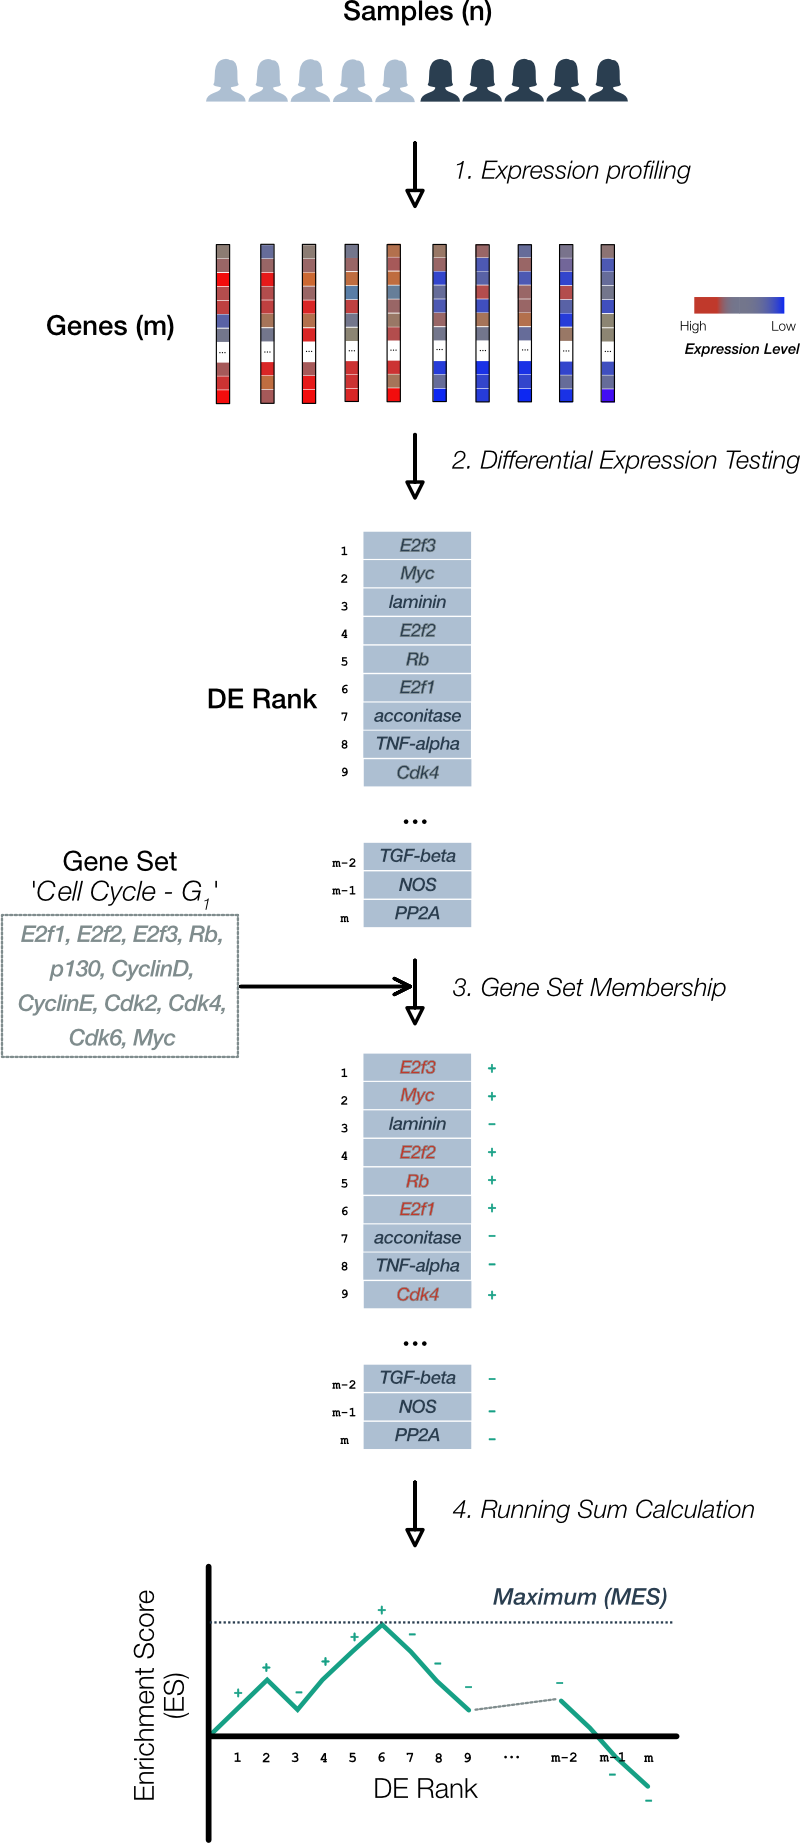
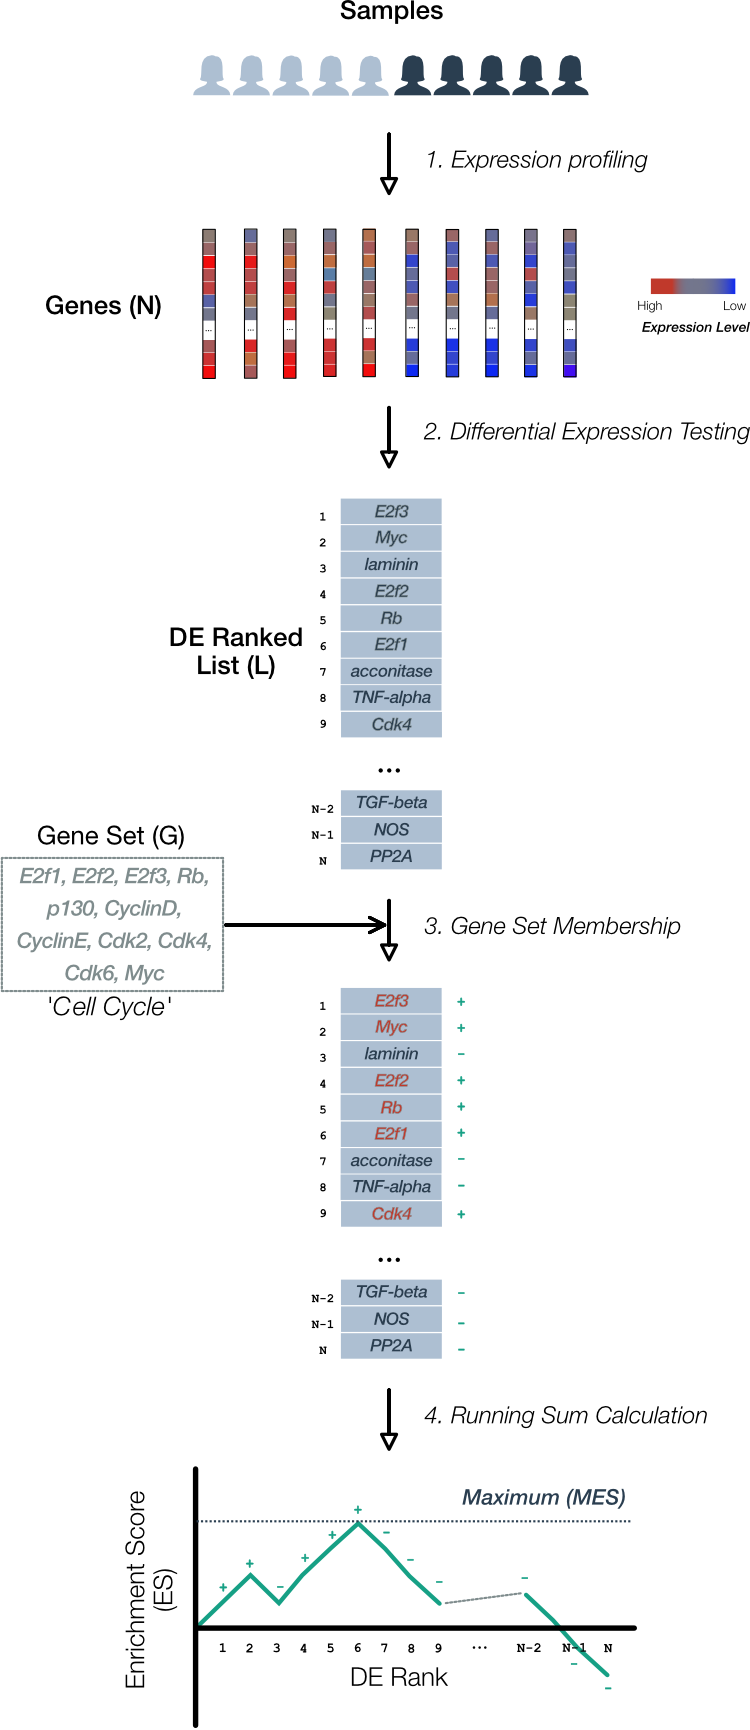
Added chapters to GSEA

diff --git a/_tools/gsea.md b/_tools/gsea.md
@@ -15,8 +15,11 @@ figures:
 
 - {:.list-unstyled} Table of Contents
   - {:.list-unstyled} [I. Summary & goals](#summaryGoals)
-  - {:.list-unstyled} [II. Background](#background)  
-  - {:.list-unstyled} [IV. References](#references)
+  - {:.list-unstyled} [II. Origins](#origins)
+  - {:.list-unstyled} [III. Scoring](#scoring)
+  - {:.list-unstyled} [IV. Significance testing](#significanceTesting)
+  - {:.list-unstyled} [V. Multiple testing correction](#multipleTesting)
+  - {:.list-unstyled} [VI. References](#references)
 
   <hr/>
 
@@ -38,36 +41,50 @@ In this section we will be using [Gene Set Enrichment Analysis (GSEA)](http://so
   <strong>Summary and Goals.</strong> This section provides background on GSEA. This approach takes as input a list of genes derived from experimental observations. The genes are ranked according to some measure, for example, the extent of differential expression between groups. ordered Candidate gene sets or pathways are examined one at a time to see how many genes from the gene list are present.
 </div>
 
-## <a href="#background" name="background">II. Background</a>
+## <a href="#origins" name="origins">II. Origins</a>
 
-Gene Set Enrichment Analysis is a tool that belongs to a class of second-generation pathway analysis approaches that are referred to by many names including *functional class scoring (FCS)* (Khatri 2012), *significance analysis of function and expression (SAFE)* (Barry 2005) and confusingly *gene set enrichment* (Ackerman 2009). Herein, we will refer to this specific category of tools by FCS.
+### Motivation
 
-### Origins
-GSEA was originally presented by Mootha *et al.* (Mootha 2003) in an attempt to shed light on the mechanistic basis of Type 2 diabetes mellitus. Their approach is predicated on the notion that alterations in gene expression associated with a disease can manifest at the level of biological pathways or co-regulated gene sets, rather than individual genes. The lack of power to detect true signals at the gene level may be a consequence of high-throughput expression measurements which involving heterogeneous samples, modest sample sizes and subtle but nevertheless meaningful alterations expression levels. Ultimately these confound attempts to derive reliable and reproducible associations with a biological state of interest.
+Mootha *et al.* (Mootha 2003) in an attempt to shed light on the mechanistic basis of Type 2 diabetes mellitus. Their approach is predicated on the notion that alterations in gene expression associated with a disease can manifest at the level of biological pathways or co-regulated gene sets, rather than individual genes.
 
-A naive approach to interpreting large-scale expression results is to rely on the faculties of the researcher to reason about genes the top ranking genes with respect to differential expression - the biggest signal. A set of alternatives collectively termed Overrepresentation Analysis (ORA), describe algorithms that apply statistical tests to determine if top-ranking genes contain members of previously described pathways beyond what would be reasonably expected to occur by chance.
+The lack of power to detect true signals at the gene level may be a consequence of high-throughput expression measurements which involve heterogeneous samples, modest sample sizes and subtle but nevertheless meaningful alterations expression levels. Ultimately these confound attempts to derive reliable and reproducible associations with a biological state of interest.
+
+A naive approach to interpreting large-scale expression results is to rely on the faculties of the researcher to reason about genes the top ranking genes with respect to differential expression - the biggest signal. Even if there are strong signals that lead to a list of differentially expressed genes the approach suffers from lack of interpretability - what does this list of genes even mean?
+
+The idea of coordinated expression of a pathway is far more biologically relevant than a very prominant increase in any particular gene. I dunno about this. Reconciling the lack of overlap between similar studies by propsing that different subsets of the same pathway may unify the dissimilar observations.  
+
+### GSEA falls under FCS categeory
 
 In a follow up article, Subramanian *et al.* elaborated on the analytical method called Gene Set Enrichment Analysis (GSEA) to derive pathways enriched in expression profiles originating in pairwise comparisons. We begin with a general description of the approach followed by an explanation of how it fits into a classic hypothesis testing approach. What was the diff here?
 
+Gene Set Enrichment Analysis is a tool that belongs to a class of second-generation pathway analysis approaches that are referred to by many names including *functional class scoring (FCS)* (Khatri 2012), *significance analysis of function and expression (SAFE)* (Barry 2005) and confusingly *gene set enrichment* (Ackerman 2009). Herein, we will refer to this specific category of tools by FCS.
+
 The method used by GSEA to map genes onto pathways is generic to those collectively known as Functional Class Scoring (FCS) approaches (Barry 2005).
 
-1. Calculate a gene-level score
-2. Calculate a pathway-level score
+1. Calculate a local or gene-level score
+2. Calculate a global or pathway-level score
 3. Determine significance of the pathway-level score
 4. Adjust for [multiple testing]({{site.baseurl}}/primers/functional_analysis/multiple_testing/)
 
-### Gene and pathway scoring
 
-Figure 1 shows the approach described by GSEA to calculate the gene-level and pathway-level scores for a pairwise comparison of gene expression levels between two groups of individuals. Examples of a pairwise comparison could be disease subtypes or disease versus normal.
+## <a href="#scoring" name="scoring">II. Scoring</a>
+
+Figure 1 shows the GSEA approach to calculate the gene- and pathway-level scores for a pairwise comparison of gene expression. The comparison could involve disease subtypes, disease versus normal or treatment versus control.
 
 ![image]({{ site.baseurl }}/{{ site.media_root }}{{ page.id }}/{{ page.figures.figure_1 }}){: .img-responsive.slim }
 <div class="figure-legend well well-lg text-justify">
-  <strong>Figure 1. Calculating a GSEA enrichment score.</strong> A pairwise comparison of gene expression  between two groups of individuals. 1. RNA samples are collected from each subject (n total) and RNA levels for each sample are interrogated by microarray or deep-sequencing. 2. A 'local' or 'gene-level' statistic is calculated for each gene corresponding to a measure of differential expression and the genes are ranked accordingly. 3. The ranked list is scanned for members of a candidate gene set, in this case cell cycle entry (members indicated in red). 4. A 'global' or 'pathway-level' statistic is calculated: For each successive gene in the ranked list, add to a running sum if the gene is a member of the gene set and subtract otherwise. This running sum is called the 'Enrichment Score' (ES) and we track its maximum (MES) over the ranked list.
+  <strong>Figure 1. Calculating a GSEA enrichment score.</strong> A pairwise comparison of gene expression. 1. RNA levels for each sample are interrogated by microarray or deep-sequencing for N genes. 2. Genes are placed in a list (L) ranked by a 'local' or 'gene-level' score that corresponds to some measure of differential expression. 3. The  list is scanned in order for candidate gene set membership (G genes in set). In this case, cell cycle entry genes in the ranked list are indicated in red. 4. A 'global' or 'pathway-level' statistic is calculated: For each successive gene in the ranked list, add to a running sum if the gene is a member of the gene set and subtract otherwise. This running sum is called the 'Enrichment Score' (ES) and we track its maximum (MES) over the ranked list.
 </div>
 
 The running sum calculated by adding and subtracting based on gene set membership in a ranked list is a Komolgorov-Smirnov (K-S) statistic.
 
-### Significance testing
+- Outstanding questions
+  - What are we adding and subtracting?
+  - Why does rank matter?
+  - What is the significance of the maximum?
+  - Why does GSEA 'work'?
+
+## <a href="#significanceTesting" name="significanceTesting">III. Significance testing</a>
 
 Typically the approach in
 
@@ -77,9 +94,14 @@ The approach can be framed in hypothesis testing language: GSEA gathers evidence
 
 Let's break that null hypothesis down.
 
-## <a href="#gsea" name="gsea">III. Gene Set Enrichment Analysis</a>
+## <a href="#multipleTesting" name="multipleTesting">IV. Multiple testing correction</a>
 
 Gene Set Enrichment Analysis.
 
-## <a href="#references" name="references">IV . References</a>
+
+## <a href="#gsea" name="gsea">V. Gene Set Enrichment Analysis</a>
+
+Gene Set Enrichment Analysis.
+
+## <a href="#references" name="references">VI. References</a>
 <!-- <div class="panel_group" data-inline="26125594,19192285,15647293,22383865,12808457,16199517"></div> -->

diff --git a/_primers/functional_analysis/rna_sequencing_analysis.md b/_primers/functional_analysis/rna_sequencing_analysis.md
@@ -39,7 +39,7 @@ figures:
 ## <a href="#summaryGoals" name="summaryGoals">I. Summary & goals</a>
 
 <div class="alert alert-warning text-justify" role="alert">
-  We have focused our discussion on those capabilities available as part of the <a href="https://bioconductor.org/packages/release/bioc/html/edgeR.html">edgeR</a> software package and referenced in our discussion of RNA sequencing data processing.  
+  We have focused our discussion on those capabilities available as part of the <a href="https://bioconductor.org/packages/release/bioc/html/edgeR.html">edgeR</a> software package.  
 </div>
 
 In this section we begin with a broad introduction to the use of RNA deep sequencing towards the goal differential expression testing. This provides the necessary context for the rationale and statistical theory underlying normalization and differential expression testing of RNA sequencing (RNA-seq) data. By then end of this discussion you should:
